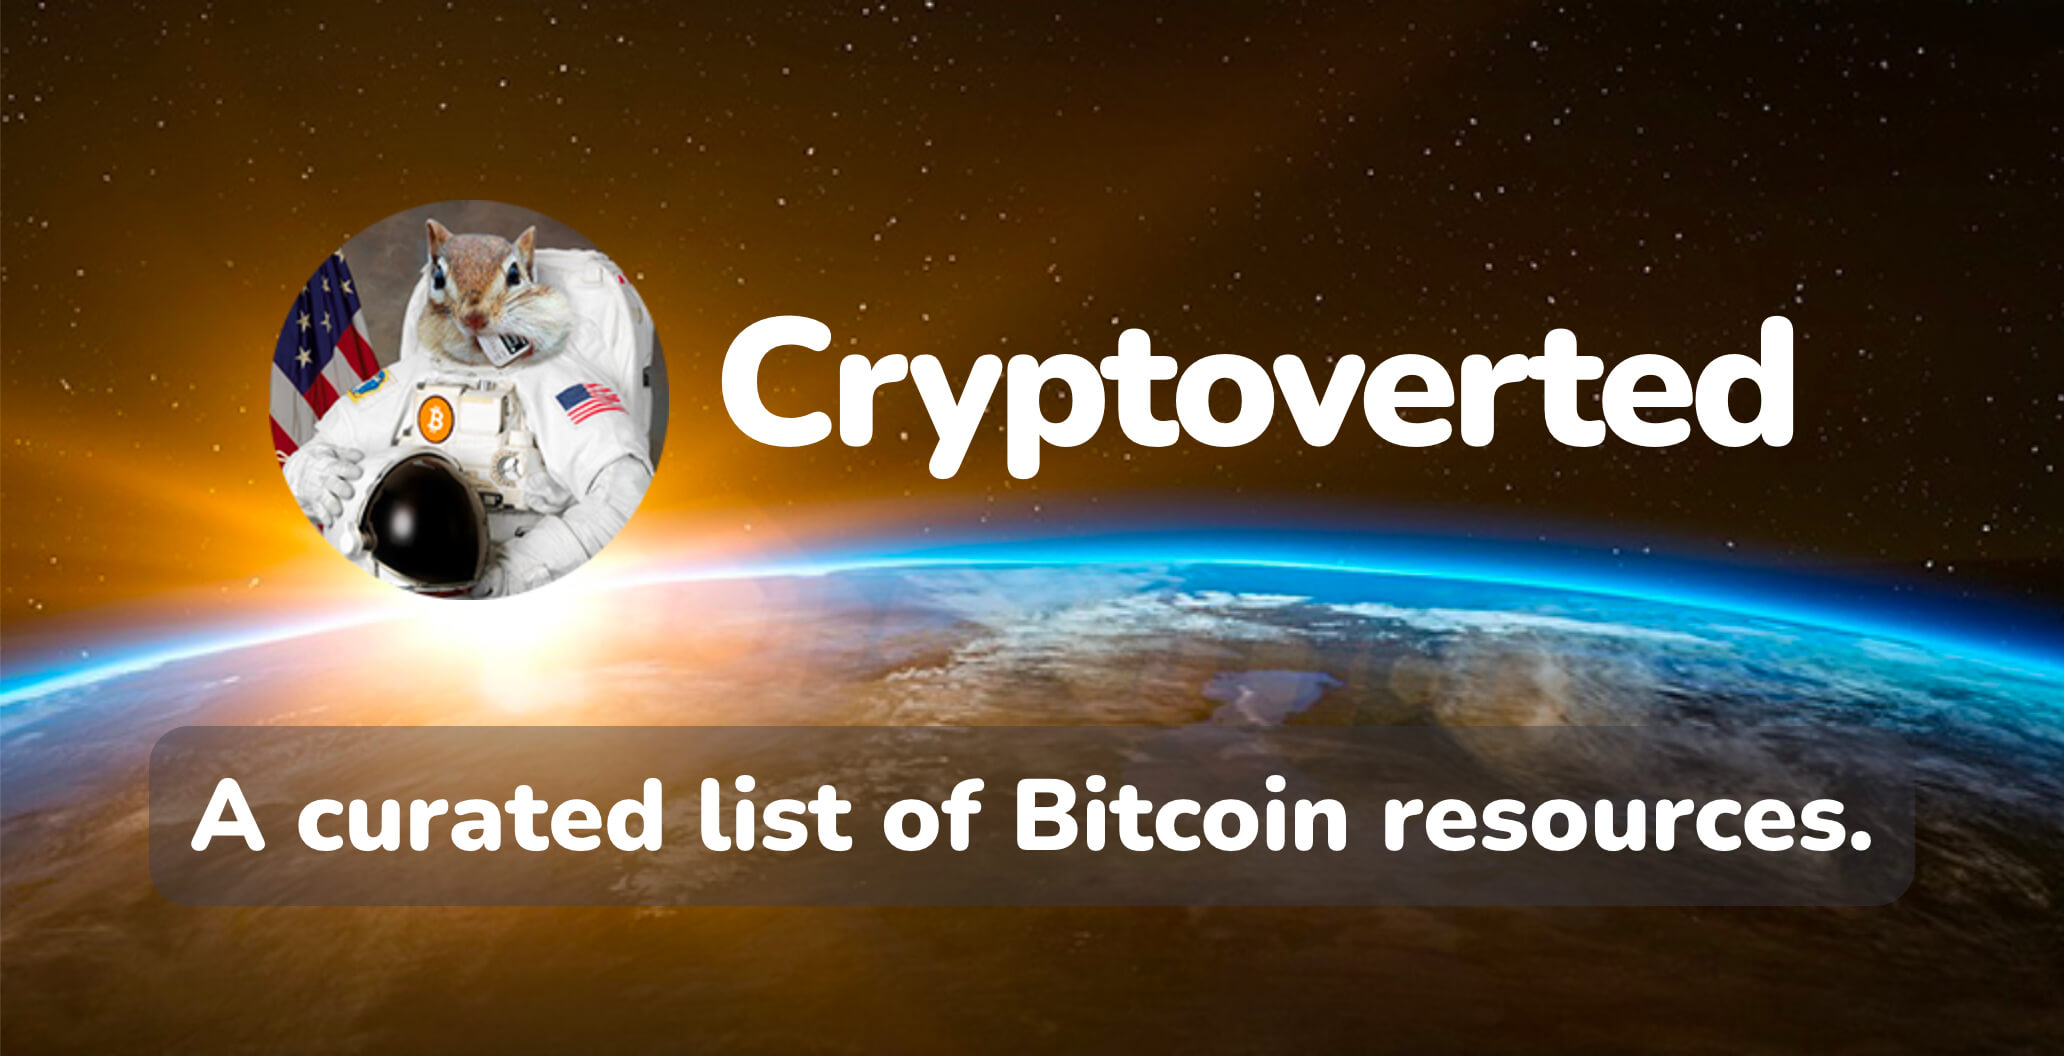
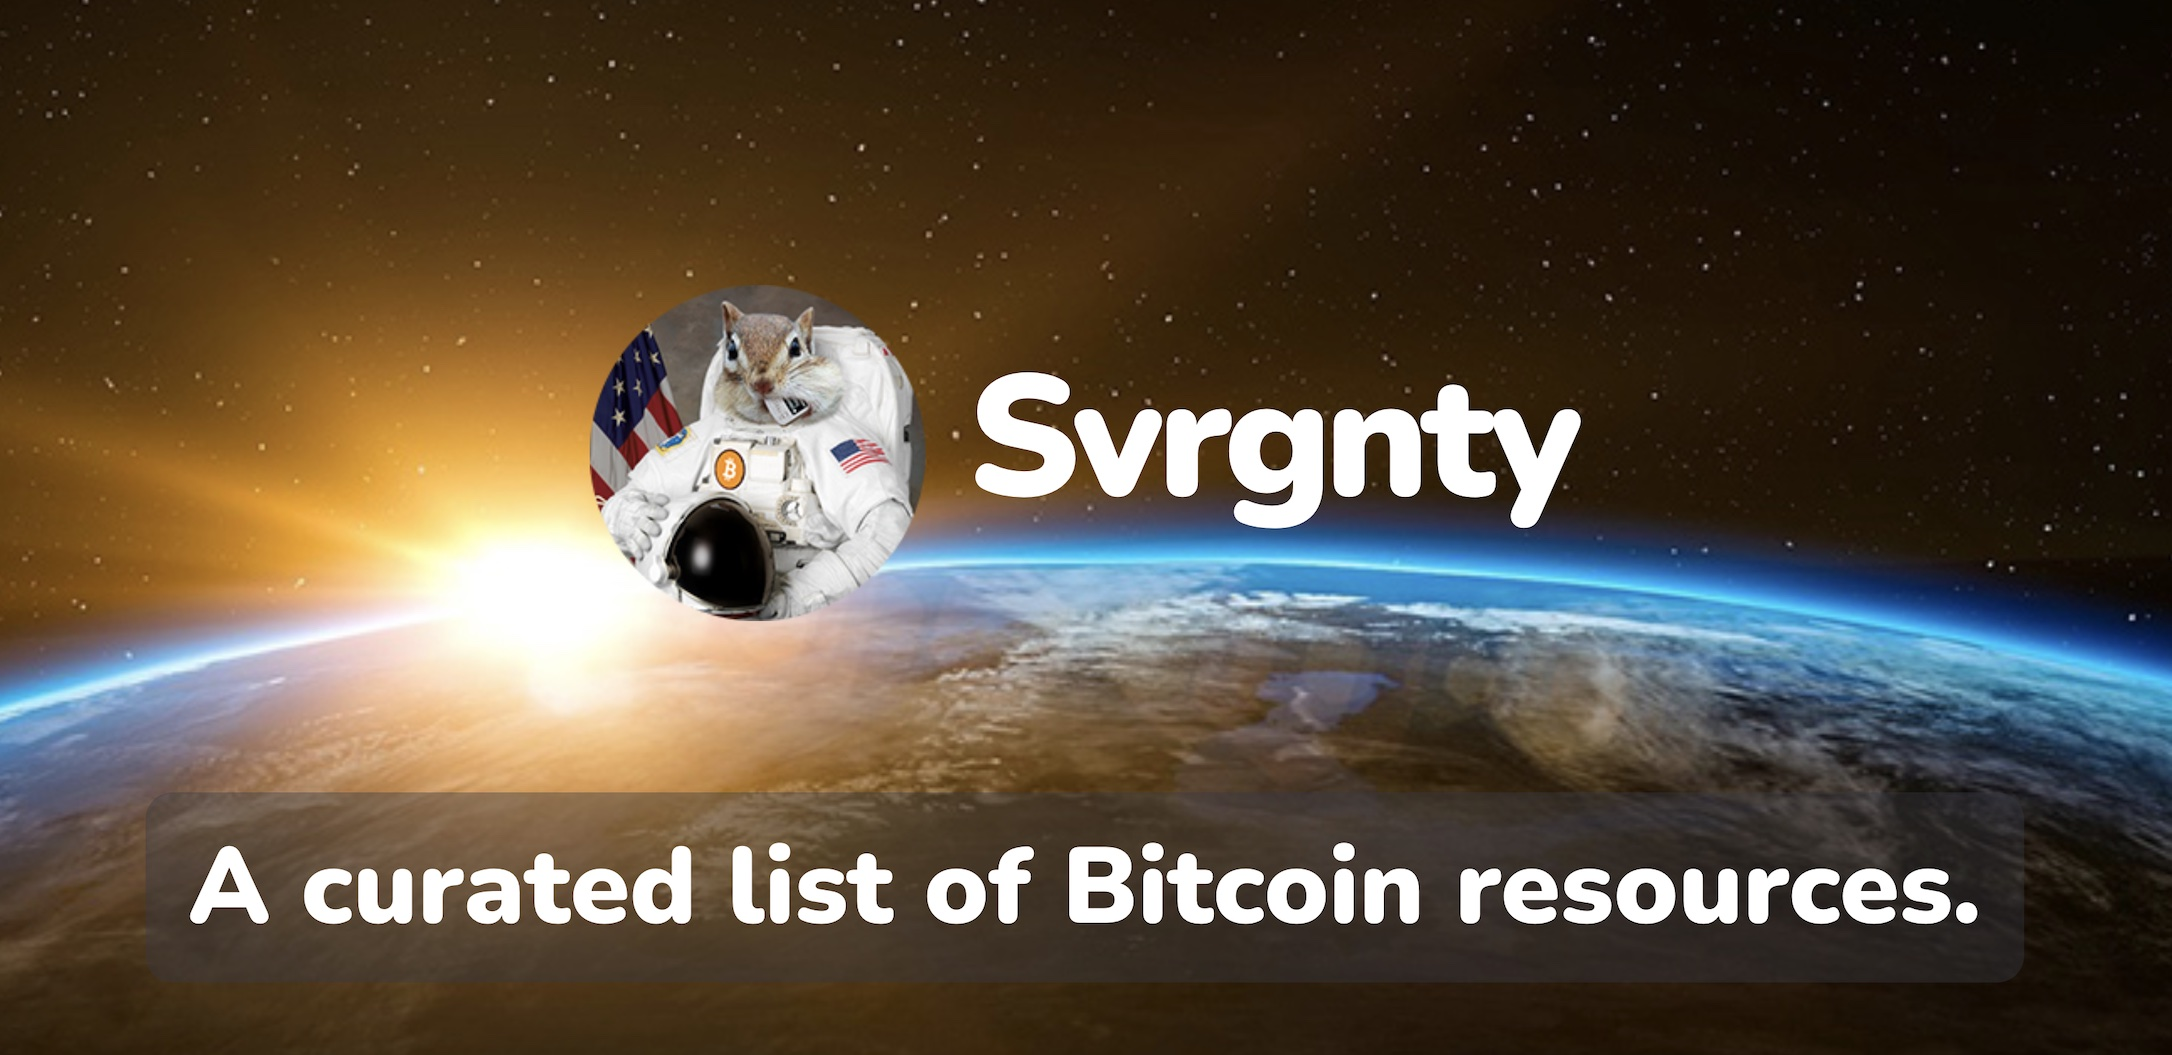
updated twitter handle

diff --git a/src/components/layout.js b/src/components/layout.js
@@ -17,7 +17,7 @@ const TemplateWrapper = ({ children }) => (
   <Container>
 
     <Helmet
-      title="Bitcoin resources - svrgnty"
+      title="Bitcoin resources - svrgnty.com"
       meta={[
         { name: 'description', content: 'A curated list of the best Bitcoin resources' },
         { name: 'og:type', content: 'website' },
@@ -29,7 +29,7 @@ const TemplateWrapper = ({ children }) => (
         { name: 'og:image', content: 'https://svrgnty.com/images/twitter-website.jpg' },
         { name: 'twitter:image', content: 'https://svrgnty.com/images/twitter-website.jpg' },
         { name: 'og:url', content: 'https://svrgnty.com' },
-        { name: 'twitter:creator', content: '@cryptoverted' },
+        { name: 'twitter:creator', content: '@svrgnty' },
         { name: 'theme-color', content: '#003366' },
       ]}
       link={[

diff --git a/src/components/layout/footer.js b/src/components/layout/footer.js
@@ -19,7 +19,7 @@ const Footer = () => (
           Privacy policy
         </Link>
         <ul>
-          <li><a href="https://twitter.com/cryptoverted"><FontAwesomeIcon icon={faTwitter} /> <span className="element-invisible">Twitter</span></a></li>
+          <li><a href="https://twitter.com/svrgnty"><FontAwesomeIcon icon={faTwitter} /> <span className="element-invisible">Twitter</span></a></li>
         </ul>
       </div>
     </div>

diff --git a/src/components/layout/header.js b/src/components/layout/header.js
@@ -9,7 +9,7 @@ const Header = () => (
   <header className="header">
     <div className="contain">
       <Link to="/" className="header-logo">
-        <img alt="logo" src={logo} /> svrgnty
+        <img alt="logo" src={logo} /> Svrgnty
       </Link>
       <div className="share">
         <Share />

diff --git a/src/templates/page.js b/src/templates/page.js
@@ -26,7 +26,7 @@ export default function Template({data}) {
   }
 
   const url = `https://svrgnty.com${pages.page}`;
-  const title = `${pages.title} | Bitcoin Resources - svgnty`;
+  const title = `${pages.title} | Bitcoin Resources - svgnty.com`;
 
   return (
 
